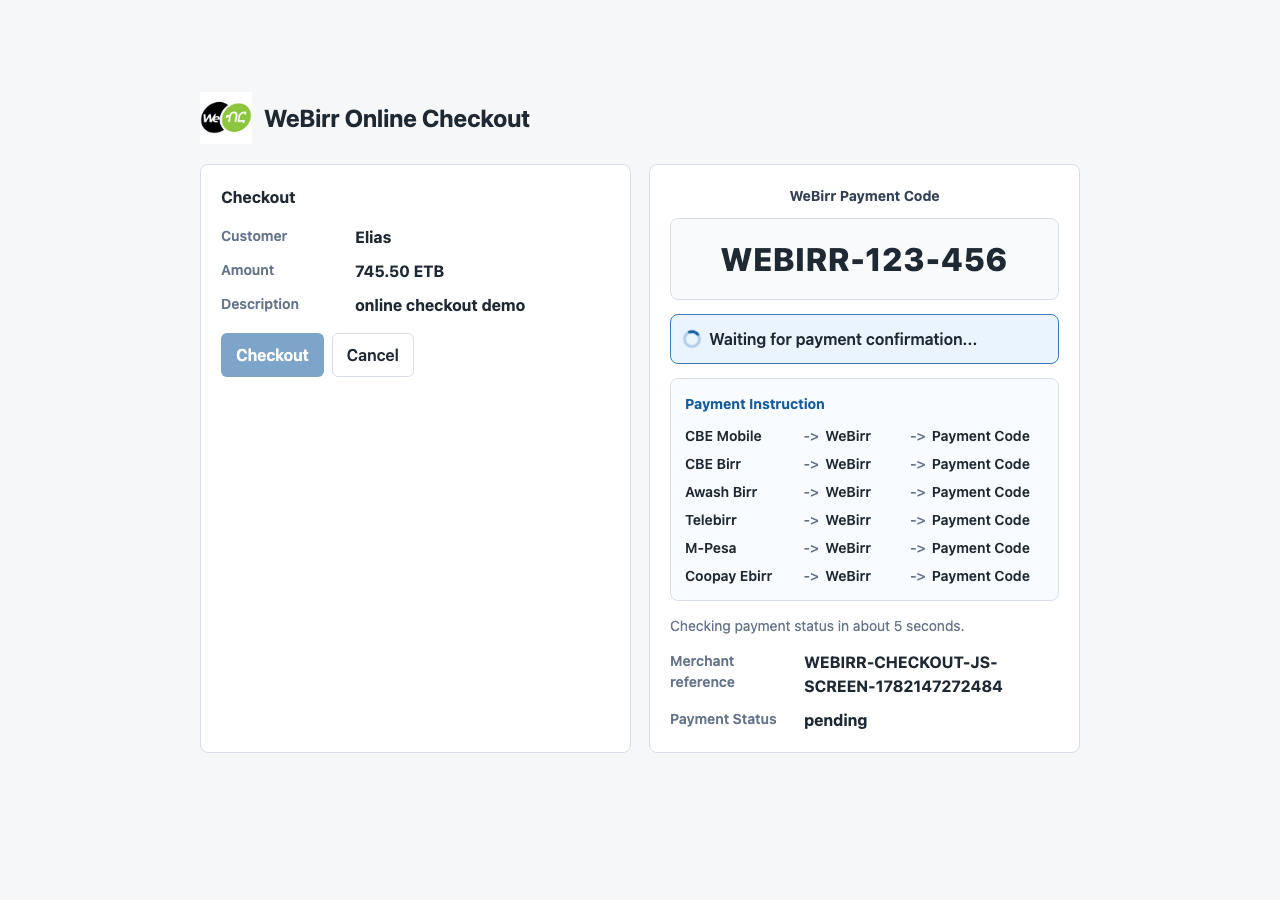
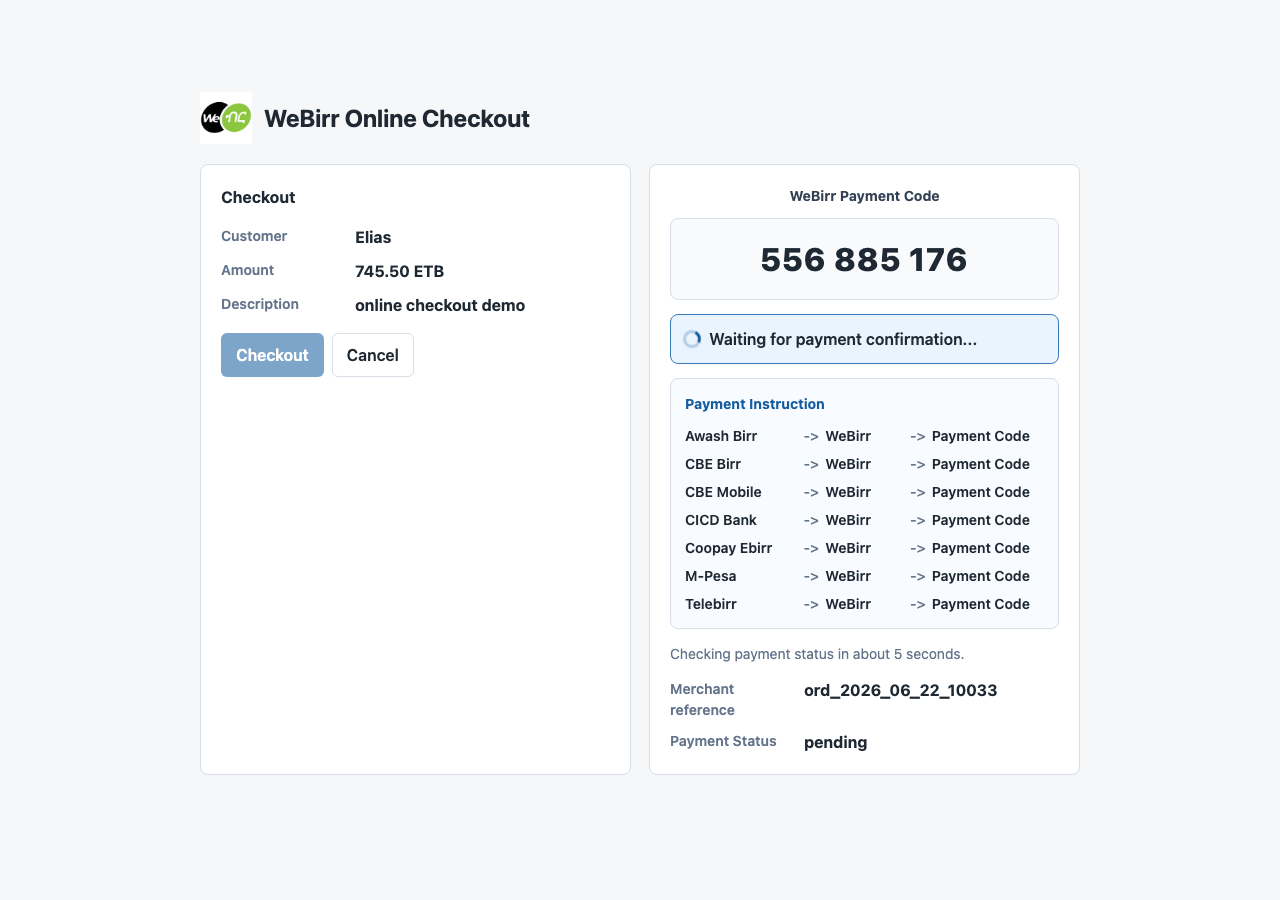
update checkout screenshots

Changed region(s): [[0.5312, 0.5289, 0.8125, 0.84], [0.5625, 0.2489, 0.7812, 0.3111], [0.5312, 0.4667, 0.5938, 0.4978]]

diff --git a/README.md b/README.md
@@ -74,6 +74,9 @@ At a glance, the payment flow is:
 ## Screenshots
 
 The Next.js example screenshots show the checkout kit in a merchant-owned app.
+The payment-code and paid-success screenshots were captured against WeBirr
+TestEnv so the visible payment code and payment reference use the real gateway
+formats.
 
 ![Initial checkout review](examples/nextjs-mock/screenshots/01-initial-checkout.png)
 
@@ -93,8 +96,10 @@ merchant backend:
 - `prod`: reads `WEBIRR_PROD_MERCHANT_ID` and `WEBIRR_PROD_API_KEY` on the
   server.
 
-Mock mode exists only for the standalone Next.js example, local screenshots,
-and CI-style checks. It should not be exposed as a production merchant setting.
+Mock mode exists only for the standalone Next.js example and CI-style checks.
+Use TestEnv mode when screenshots need to show real WeBirr payment-code and
+payment-reference formats. Mock mode should not be exposed as a production
+merchant setting.
 
 ## Development
 

diff --git a/examples/nextjs-mock/README.md b/examples/nextjs-mock/README.md
@@ -110,14 +110,18 @@ is created.
 ### Payment Code Waiting
 
 The checkout displays the WeBirr Payment Code and instructions generated from
-the merchant-supported bank list returned by the backend.
+the merchant-supported bank list returned by the backend. The included
+screenshot was captured from WeBirr TestEnv so it shows the real WeBirr payment
+code format.
 
 ![Payment code waiting](screenshots/03-payment-code-pending.png)
 
 ### Payment Confirmed
 
 The paid state shows the standard online-checkout confirmation fields:
-Customer, Amount, Payment Reference, and Paid Via.
+Customer, Amount, Payment Reference, and Paid Via. The included screenshot was
+captured after completing the TestEnv bill through the internal test-pay
+simulator.
 
 ![Payment confirmed](screenshots/04-paid-success.png)
 